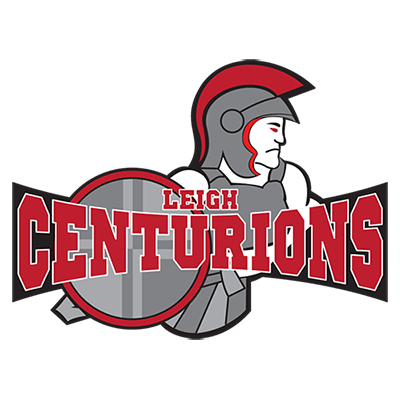
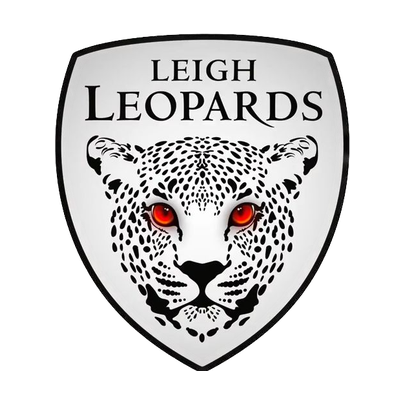
rebrand from centurions to leopards

diff --git a/src/pages/Home.js b/src/pages/Home.js
@@ -4,7 +4,7 @@ import Box from "@material-ui/core/Box";
 import Grid from "@material-ui/core/Grid";
 import Typography from "@material-ui/core/Typography";
 import HowToCard from "../components/HowToCard"
-import centurions from "../images/centurions.jpg";
+import leopards from "../images/leopards.png";
 import Fixture from "../components/Fixture";
 import {Link} from "react-router-dom";
 import {PlayRoute} from "./Pages";
@@ -23,13 +23,13 @@ const useStyles = makeStyles((theme) => ({
         paddingTop: theme.spacing(2),
         paddingBottom: theme.spacing(2),
     },
-    centurionWrapper: {
+    logoWrapper: {
         maxWidth: 1000,
         margin: "auto",
     },
-    centurion: {
-        background: `url(${centurions}) no-repeat top`,
-        backgroundSize: `cover`,
+    logo: {
+        background: `url(${leopards}) no-repeat top`,
+        backgroundSize: `contain`,
         paddingBottom: `70%`,
     },
     title: {
@@ -68,10 +68,8 @@ export default function Home() {
 
     return (
         <Box>
-            <div className={classes.primarySectionWrapper}>
-                <div className={classes.centurionWrapper}>
-                    <div className={classes.centurion}/>
-                </div>
+            <div className={classes.logoWrapper}>
+                <div className={classes.logo}/>
             </div>
             <div style={{minHeight: 400}}>
                 {roundReady && <div>
@@ -96,10 +94,10 @@ export default function Home() {
                 <div className={classes.section}>
                     <Typography className={classes.title} variant={"h2"} color={"secondary"}>SUPER LEIGH!</Typography>
                     <Typography className={classes.textBlock} variant={"body1"} color={"secondary"}>
-                        Welcome to the rugby league prediction game dedicated to Leigh Centurions - for all the Leythers out there.
+                        Welcome to the rugby league prediction game dedicated to Leigh Rugby Football Club - for all the Leythers out there.
                     </Typography>
                     <Typography className={classes.textBlock} variant={"body1"} color={"secondary"}>
-                        It's simple, just predict the outcome of Leigh Centurions next fixture! The closer you are to the result, the more points
+                        It's simple, just predict the outcome of Leigh's next fixture! The closer you are to the result, the more points
                         you'll score. Earn bonus points for predicting the winner and getting it spot on.
                     </Typography>
                     <Typography className={classes.textBlock} variant={"body1"} color={"secondary"}>
@@ -116,10 +114,10 @@ export default function Home() {
                     </Grid>
                     <Grid item xs={12} sm={6} md={3}>
                         <HowToCard title={"PREDICT THE SCORE"} icon={"question"}
-                                   description={"Tell us what you think the score of Leigh Centurions' next fixture will be."}/>
+                                   description={"Tell us what you think the score of Leigh's next fixture will be."}/>
                     </Grid>
                     <Grid item xs={12} sm={6} md={3}>
-                        <HowToCard title={"SUPPORT THE CENTURIONS!"} icon={"rugby"}
+                        <HowToCard title={"SUPPORT THE LEOPARDS!"} icon={"rugby"}
                                    description={"Cheer the lads on and enjoy the game ...no matter what the outcome."}/>
                     </Grid>
                     <Grid item xs={12} sm={6} md={3}>
@@ -132,8 +130,7 @@ export default function Home() {
                 <div className={classes.section}>
                     <Typography className={classes.title} variant={"h2"} color={"secondary"}>Origins</Typography>
                     <Typography className={classes.textBlock} variant={"body1"} color={"secondary"}>
-                        There is a fan, lets call him <strong>Steve</strong>. He thinks he's great at predicting the results of his beloved Leigh
-                        Centurions,
+                        There is a fan, lets call him <strong>Steve</strong>. He thinks he's great at predicting the results of his beloved Leigh,
                         but that wasn't enough. He needed to prove that he wasn't just good, but he was the best!
                     </Typography>
                     <Typography className={classes.textBlock} variant={"body1"} color={"secondary"}>

diff --git a/public/index.html b/public/index.html
@@ -7,22 +7,22 @@
     <meta name="theme-color" content="#BE1D2C" />
 
     <!-- Primary Meta Tags -->
-    <title>Super Leigh! - The Leigh Centurions Predictor Game</title>
-    <meta name="title" content="Super Leigh! - The Leigh Centurions Predictor Game">
-    <meta name="description" content="Predict the scores of Leigh Centurions next fixture and see where you rank - Sign up now and play for free.">
+    <title>Super Leigh! - The Leigh Leopards Predictor Game</title>
+    <meta name="title" content="Super Leigh! - The Leigh Leopards Predictor Game">
+    <meta name="description" content="Predict the scores of Leigh Leopards next fixture and see where you rank - Sign up now and play for free.">
 
     <!-- Open Graph / Facebook -->
     <meta property="og:type" content="website">
     <meta property="og:url" content="https://www.superleigh.co.uk/">
-    <meta property="og:title" content="Super Leigh! - The Leigh Centurions Predictor Game">
-    <meta property="og:description" content="Predict the scores of Leigh Centurions next fixture and see where you rank - Sign up now and play for free.">
+    <meta property="og:title" content="Super Leigh! - The Leigh Leopards Predictor Game">
+    <meta property="og:description" content="Predict the scores of Leigh Leopards next fixture and see where you rank - Sign up now and play for free.">
     <meta property="og:image" content="https://www.superleigh.co.uk/social.png">
 
     <!-- Twitter -->
     <meta property="twitter:card" content="summary_large_image">
     <meta property="twitter:url" content="https://www.superleigh.co.uk/">
-    <meta property="twitter:title" content="Super Leigh! - The Leigh Centurions Predictor Game">
-    <meta property="twitter:description" content="Predict the scores of Leigh Centurions next fixture and see where you rank - Sign up now and play for free.">
+    <meta property="twitter:title" content="Super Leigh! - The Leigh Leopards Predictor Game">
+    <meta property="twitter:description" content="Predict the scores of Leigh Leopards next fixture and see where you rank - Sign up now and play for free.">
     <meta property="twitter:image" content="https://www.superleigh.co.uk/social.png">
 
     <link rel="apple-touch-icon" href="%PUBLIC_URL%/apple-touch-icon.png" />

diff --git a/src/pages/HowTo.js b/src/pages/HowTo.js
@@ -35,7 +35,7 @@ export default function HowTo() {
             <Typography className={classes.title} variant={"h2"} color={"primary"}>How it works?</Typography>
             <Typography className={classes.title} variant={"h4"} color={"primary"}>Playing the game</Typography>
             <TitledContent title="Rounds" variant={"h5"}
-                           content="Each round has a single fixture that is most likely to be Leigh Centurions' next game. A round goes through various stages:"/>
+                           content="Each round has a single fixture that is most likely to be Leigh's next game. A round goes through various stages:"/>
             <TitledContent title="Open" variant={"h6"}
                            content="The next round will open as soon as the previous round is complete.  While a round is open, you may update your predications as often as you like until the round becomes in play."/>
             <TitledContent title={"In Play"} variant={"h6"}
@@ -53,11 +53,11 @@ export default function HowTo() {
                            content="A maximum of 10 points are up for grabs here. These points are allocated for the differences between the result and the prediction. 1 point is lost for every 2 points difference until the difference is 20."/>
             <Typography className={classes.title} variant={"h4"} color={"primary"}>Examples</Typography>
             <TitledContent title="Example result" variant={"h5"}
-                           content="Let's pick a completely random result from Leigh Centurions' 2017 campaign."/>
+                           content="Let's pick a completely random result from Leigh's 2017 Super League campaign."/>
             <Fixture round={{
                 ground: "Leigh Sports Village",
                 kickOff: "2017-06-08T20:00:00.000Z",
-                homeTeam: {name: "Leigh Centurions", badgeSrc: "../teams/leigh.png"},
+                homeTeam: {name: "Leigh Centurions", badgeSrc: "../teams/leigh-centurions.png"},
                 awayTeam: {name: "Wigan Warriors", badgeSrc: "../teams/wigan.png"}
             }}/>
             <ScoreCard id={"results"} homeScore={50} awayScore={34}/>

diff --git a/src/layout/Footer.js b/src/layout/Footer.js
@@ -2,7 +2,7 @@ import React from 'react';
 import {makeStyles} from "@material-ui/core/styles";
 import Grid from "@material-ui/core/Grid";
 import Typography from "@material-ui/core/Typography";
-import centurionWhite from '../images/centurionWhite.png'
+import paw from '../images/paw.png'
 import Link from "@material-ui/core/Link";
 import {AboutRoute, PrivacyRoute, TcAndCsRoute} from "../pages/Pages";
 import format from 'date-fns/format';
@@ -31,7 +31,7 @@ export default function Footer() {
     return (
         <div className={classes.root}>
             <div className={classes.footer}>
-                <img className={classes.logo} src={centurionWhite} alt="Logo"/>
+                <img className={classes.logo} src={paw} alt="Logo"/>
                 <Grid container justify={"center"}>
                     <Grid item xs={12} sm={6} md={3}>
                         <Typography align={"center"} gutterBottom color={"secondary"}>

diff --git a/src/pages/TsAndCs.js b/src/pages/TsAndCs.js
@@ -61,7 +61,7 @@ export default function Profile() {
                     <ListItemText primary='There is one fixture per round.'/>
                 </ListItem>
                 <ListItem>
-                    <ListItemText primary="Although the fixture will usually be Leigh Centurions' next fixture, it is not required to be so and on occasion we reserve the right to
+                    <ListItemText primary="Although the fixture will usually be Leigh's next fixture, it is not required to be so and on occasion we reserve the right to
             play a different fixture."/>
                 </ListItem>
                 <ListItem>

diff --git a/src/pages/About.js b/src/pages/About.js
@@ -37,8 +37,7 @@ export default function Profile() {
                 maintained by an individual driven by a labour of love. It is not manned by a fleet of IT professionals on hand 24/7. Please be
                 patient with any queries or concerns.
             </Typography>
-            <Typography className={classes.textBlock} variant="body2" component="p">"Roman Helmet" icon by parkjisun from the Noun
-                Project.</Typography>
+            <Typography className={classes.textBlock} variant="body2" component="p">"Panther Paw" icon by Kemesh Maharjan from the Noun Project</Typography>
         </Box>
     );
 }

diff --git a/src/pages/Fixtures.js b/src/pages/Fixtures.js
@@ -103,7 +103,7 @@ export default function Fixtures() {
     async function fetchTeams() {
         const teams = await API.graphql(graphqlOperation(fetchTeamsQuery));
         setTeams(teams.data.listTeams.items.sort((a, b) => a.name.localeCompare(b.name)));
-        setLeighIdx(teams.data.listTeams.items.findIndex(t => t.name === "Leigh Centurions"));
+        setLeighIdx(teams.data.listTeams.items.findIndex(t => t.name === "Leigh Leopards"));
     }
 
     function assignListener(subscription) {
